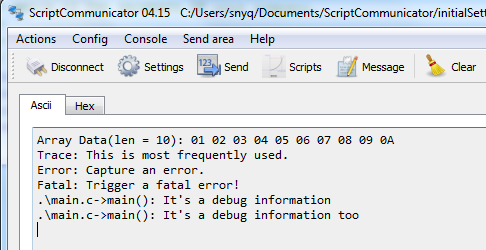
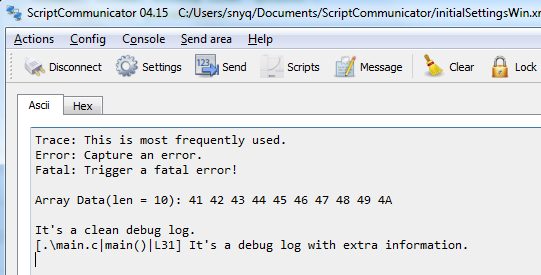
UPD: Update API name. Make it more readable. UPD: Update ReadMe file.

Changed region(s): [[0.0, 0.0, 1.0, 1.0]]

diff --git a/src/logger.c b/src/logger.c
@@ -20,7 +20,21 @@
 static _Bool            hasLoggerInitialized;   /* Ensure logger is initialized only once */
 static logger_config_t  loggerConfig;           /* Global config variable */
 
-logger_t    logger;                             /* Global logger */
+
+void logger_start(logger_level_t level, uart_baud_rate_t baudRate);
+void logger_fatal(const char* format, ...);
+void logger_error(const char* format, ...);
+void logger_trace(const char* format, ...);
+void logger_array(const uint8* data, uint16 len);
+
+logger_t    logger = {
+    .config   = &loggerConfig,
+    .t        = logger_trace,
+    .e        = logger_error,
+    .f        = logger_fatal,
+	.start    = logger_start,
+	.list     = logger_array,
+};                             /* Global logger */
 
 /* Nibble of a char */
 const char HEX_CHAR_TABLE[] = {'0','1','2','3','4','5','6','7','8','9','A','B','C','D','E','F',};
@@ -112,6 +126,60 @@ void logger_raw(logger_level_t level, const char* format, ...)
 }
 
 /*******************************************************************************
+* Function Name: logger_printUint32
+********************************************************************************
+*
+* Summary:
+*  Print a uint32 data as decimal.
+*
+* Parameters:
+*  data: a decimal data.
+*
+* Returns:
+*  None
+*
+*
+*******************************************************************************/
+void logger_printUint32(uint32 data)
+{
+	char char_table[] = {'0', '1', '2', '3', '4', '5', '6', '7', '8', '9'};
+	uint32 int_len[] = {
+		1000000000,
+		100000000,
+		10000000,
+		1000000,
+		100000,
+		10000,
+		1000,
+		100,
+		10,
+		1,
+	};
+	uint32 d = data;		/* Temp data */
+	uint8  i, j;			/* Loop variable */
+	uint8  data_len = 0;	/* Data bit length */
+
+	if (data < 10) {
+		UART_PUTC(char_table[data]);	
+		return;
+	}	
+	
+	/* Find input data length */
+	for (i = 0; i < 10; i++) {
+		if (d >= int_len[i]) {
+			data_len = 10 - i;	
+			break;
+		}
+	}
+	
+	/* Print each bit */
+	for (j = 0; j < data_len; j++) {
+		UART_PUTC(char_table[d / int_len[i + j]]);
+		d = d % int_len[i + j];	
+	}
+}
+
+/*******************************************************************************
 * Function Name: logger_format
 ********************************************************************************
 *
@@ -122,6 +190,7 @@ void logger_raw(logger_level_t level, const char* format, ...)
 *  level: logger level.
 *  file: file where calling this function.
 *  function: function where calling this API.
+*  line: code line.
 *  format: format string like 'printf'.
 *  ...: variable parameters.
 *
@@ -130,7 +199,7 @@ void logger_raw(logger_level_t level, const char* format, ...)
 *
 *
 *******************************************************************************/
-void logger_format(logger_level_t level, const char* file, const char* function, const char* format, ...)
+void logger_format(logger_level_t level, const char* file, const char* function, uint32 line, const char* format, ...)
 {    
     if (!hasLoggerInitialized) {
         return;   
@@ -141,10 +210,14 @@ void logger_format(logger_level_t level, const char* file, const char* function,
     }
     
     /* Print format text. */
+	UART_PUTS("[");
     UART_PUTS(file);
-    UART_PUTS("->");
+    UART_PUTS("|");
     UART_PUTS(function);
-    UART_PUTS("(): ");
+    UART_PUTS("()");
+    UART_PUTS("|L");
+	logger_printUint32(line);
+	UART_PUTS("] ");
     UART_BUSY;
     
     va_list args;
@@ -371,10 +444,7 @@ void logger_start(logger_level_t level, uart_baud_rate_t baudRate)
     loggerConfig.level    = level;
     loggerConfig.heapSize = CYDEV_HEAP_SIZE;        /* System heap size */
     
-    logger.config   = loggerConfig;
-    logger.t        = logger_trace;
-    logger.e        = logger_error;
-    logger.f        = logger_fatal;    
+ 
 
     /* Disable the logger. As SCB is not started, so it dosn't consume power */
     if (level == LOGGER_LEVEL_DISABLE) {
@@ -386,7 +456,7 @@ void logger_start(logger_level_t level, uart_baud_rate_t baudRate)
     /* printf function requires heap size being largger than 0x200 */
     if (loggerConfig.heapSize < 0x200) {
         heapSizeInsufficient = 1;
-        logger.config.baudRate = UART_BAUD_RATE_115200; /* Used for print error */
+        loggerConfig.baudRate = UART_BAUD_RATE_115200; /* Used for print error */
     }
 
     logger_init();

diff --git a/src/logger.h b/src/logger.h
@@ -60,22 +60,21 @@ typedef struct {
 typedef void (*logger_callback)(const char* format, ...);
 
 typedef struct {
-    logger_config_t config;
+    logger_config_t *config;
     logger_callback t;
     logger_callback e;
     logger_callback f;
+	void            (*start)(logger_level_t level, uart_baud_rate_t baudRate);
+	void            (*list)(const uint8* data, uint16 len);
 } logger_t;
 
 /* This is main interface */
 extern logger_t     logger;
 
-void logger_start(logger_level_t level, uart_baud_rate_t baudRate);
-void logger_array(const uint8* data, uint16 len);
-
 void logger_raw(logger_level_t level, const char* format, ...);
-void logger_format(logger_level_t level, const char* file, const char* function, const char* format, ...);
+void logger_format(logger_level_t level, const char* file, const char* function, uint32 line, const char* format, ...);
 /* This is for debug use */
-#define p(...)      logger_format(LOGGER_LEVEL_DEBUG, __FILE__, __FUNCTION__, __VA_ARGS__)
-#define i(...)      logger_raw(LOGGER_LEVEL_DEBUG, __VA_ARGS__)
+#define d(...)      logger_format(LOGGER_LEVEL_DEBUG, __FILE__, __FUNCTION__, __LINE__, __VA_ARGS__)
+#define p(...)      logger_raw(LOGGER_LEVEL_DEBUG, __VA_ARGS__)
 
-#endif /* __LOG_H__ */
+#endif /* __LOGGER_H__ */

diff --git a/logger.cydsn/main.c b/logger.cydsn/main.c
@@ -12,28 +12,24 @@
 #include <project.h>
 #include "../src/logger.h"
 #include <stdio.h>
-#define N 10
 
 int main()
 {
     CyGlobalIntEnable;
     
-    logger_start(LOGGER_LEVEL_DEBUG, UART_BAUD_RATE_115200);
-    
-    logger.t("Array Data(len = %d): ", N);
-    uint8 testData[N];
-    uint16 i;
-    for (i = 0; i < N; i++) {
-        testData[i] = i+1;   
-    }
-    logger_array(testData, N);  /* No need to add \r\n anymore */
-    
+    logger.start(LOGGER_LEVEL_DEBUG, UART_BAUD_RATE_115200);
+	
     logger.t("Trace: This is most frequently used.\r\n");
     logger.e("Error: Capture an error.\r\n");
-    logger.e("Fatal: Trigger a fatal error!\r\n");
-    p("It's a debug information\r\n");
-    p("It's a debug information too\r\n");
-    
+    logger.f("Fatal: Trigger a fatal error!\r\n");
+	
+    logger.t("\r\nArray Data(len = %d): ", 10);
+    uint8 testData[10] = {'A', 'B', 'C', 'D', 'E', 'F', 'G', 'H', 'I', 'J'};
+	logger.list(testData, 10);
+	
+	p("\r\nIt's a clean debug log.\r\n");
+    d("It's a debug log with extra information.\r\n");  
+	
     
     for(;;)
     {

diff --git a/README.md b/README.md
@@ -1,7 +1,5 @@
 # logger
-A log system for PSoC project.
-
-
+A log4j like system for PSoC project.
 
 ## Feature:
 
@@ -17,54 +15,71 @@ A log system for PSoC project.
 
    LOGGER_LEVEL_DISABLE will disable all message display, and even don't start SCB component, which is useful in the final firmware of those power sensitive systems.
 
-   LOGGER_LEVEL_DEBUG will enable all levels of message. It's used frequently.
+   LOGGER_LEVEL_TRACE will enable TRACE, ERROR and FATAL messages.
+
+   LOGGER_LEVEL_DEBUG will enable all levels of messages. 
 
    Of course, you can add more levels as per your requirement.
 
 2. Dynamical baud rate configuration
 
-   Assign baud rate in API logger_start().
+   Use an external clock component to enable set baud rate in the run-time. The baud rate is assigned in logger.start() API.
 
-   All baud rates supported in SCB component are supported here.
+   All baud rates supported in SCB component should be supported here.
 
-3. `Printf` syntax
+3. `Printf` like syntax
 
    This system uses the same syntax like standard printf function. 
 
-   Resolving '\n' issue of printf function.
+4. `p()` and `d()` macro
 
-4. `p()` macro
+   d() will print out the file path, function name and line number of the caller. p() is a wrapper of printf.
 
-   This macro is useful when debugging code. It will print out the file path and function name of the target.
-
-   It's easy to add line number in this function if required.
-
-5. Good error prompt
+5. Error prompt
 
    Don't have to put up with heap size, messy code issues.
 
 
 ## Usage:
 
-1. Copy SCB and clock components to your own project, make sure the names are not changed. (You can change them as per your project, only need to fix some macro name errors happen in logger.h)
-
-2. Include logger.h in your file and start logger system via `logger_start` function, with logger level and uart baud rate.
-
+1. Copy SCB and clock components to your own project.
+2. Include logger.h and start it via `logger.start` function.
 3. Print trace message via `logger.t`, error message via `logger.e`, fatal message via `logger.f`. 
+4. Print array data via `logger.array`, this function is ended with '\r\n'. 
+5. Print debug information via `d` or `p` macro. 
 
-4. Print array data via `logger_array`, this function is ended with '\r\n'. Print debug information via `p` macro. 
 
+That's all. 
 
-That's all. Please check main.c for reference.
+## Test
 
-## Screenshot
+Try to run below code:
+
+```C
+    CyGlobalIntEnable;
+    
+    logger.start(LOGGER_LEVEL_DEBUG, UART_BAUD_RATE_115200);
+	
+    logger.t("Trace: This is most frequently used.\r\n");
+    logger.e("Error: Capture an error.\r\n");
+    logger.f("Fatal: Trigger a fatal error!\r\n");
+	
+    logger.t("\r\nArray Data(len = %d): ", 10);
+    uint8 testData[10] = {'A', 'B', 'C', 'D', 'E', 'F', 'G', 'H', 'I', 'J'};
+	logger.list(testData, 10);
+	
+	p("\r\nIt's a clean debug log.\r\n");
+    d("It's a debug log with extra information.\r\n");  
+```
+
+Get the output in the UART terminal like below:
 
 ![Test result](./test result.png)
 
 ## Note:
 
-Heap size should be largger than 0x200, otherwise system can't work well since the core function is vprintf which requires a big heap size.
+It require global interrupt enabled, so make sure `CyGlobalIntEnable` is called before printing.
 
-I set over-sampling parameter to 10 from 12 of SCB component, to fit for most baud rates.
+Heap size should be largger than 0x200, which is required by vprintf.
 
-I set IMO to 24 MHz as some special reasons, it should also OK for other frequency. I don't test them. :-)
+The over-sampling parameter of SCB component is set to 10 from 12, in order to fit most baud rates.
